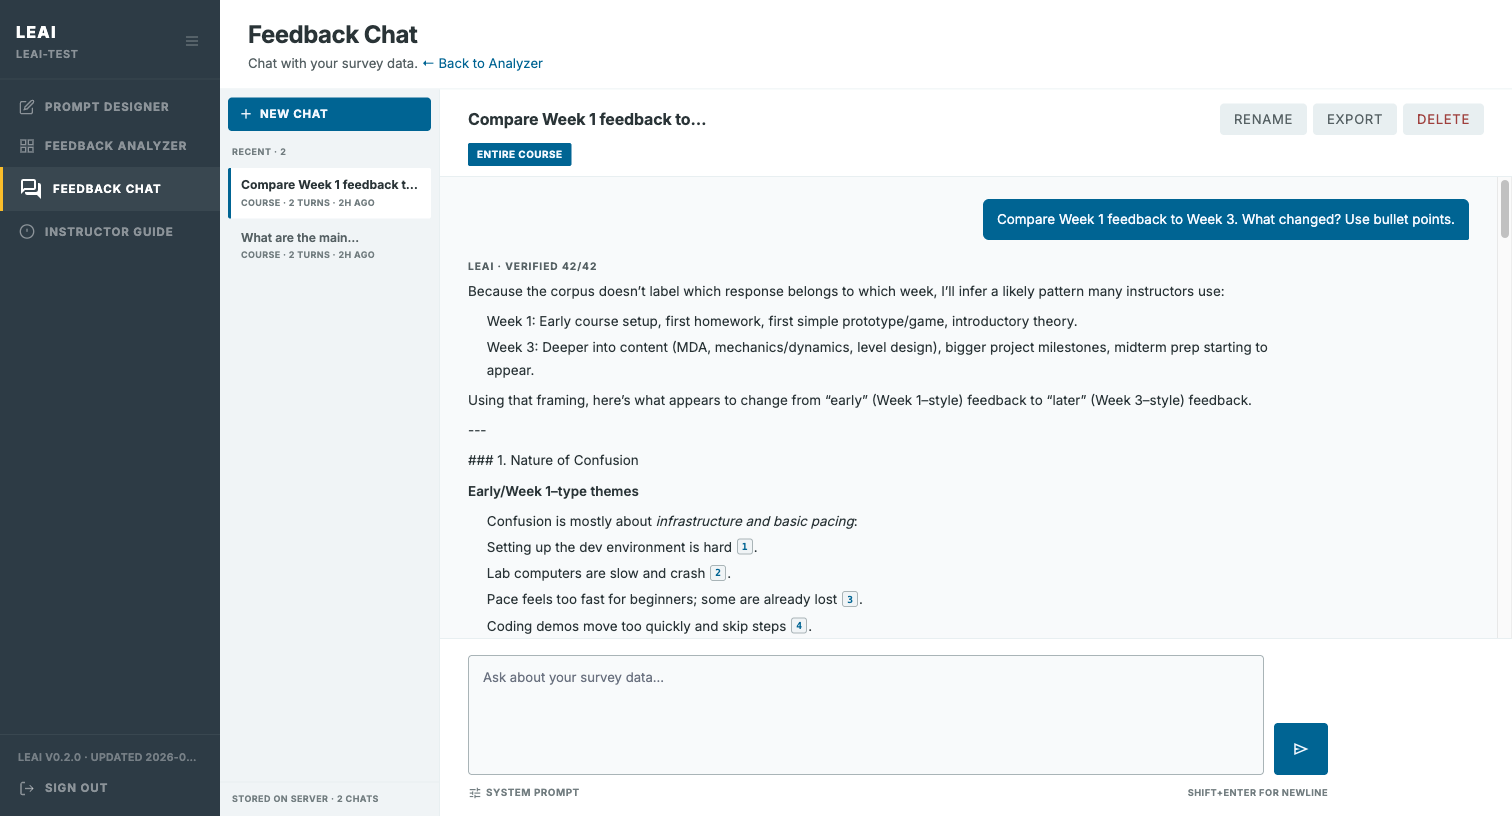
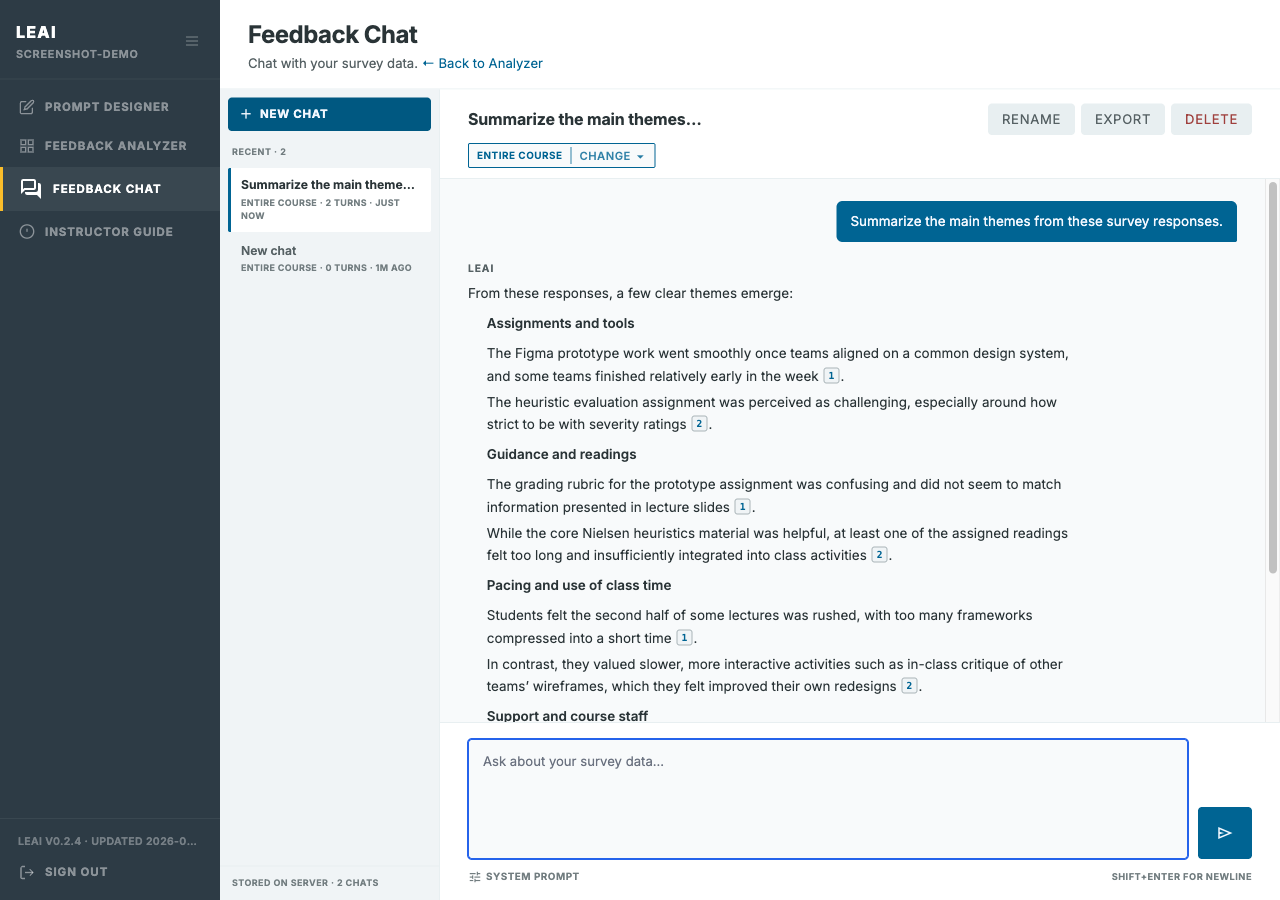
docs(instructor-guide): note async chat response time and refresh citation screenshot

diff --git a/LEAI/instructor-guide.html b/LEAI/instructor-guide.html
@@ -779,6 +779,11 @@
       <p><strong>Use the "Ask a follow-up" link.</strong> After reviewing the AI Quick Take, click <strong>Ask a follow-up →</strong> to open a new chat session with the Quick Take pasted in as the first AI message — pills, sources drawer, and verification badges all carry over. You can then ask follow-ups like <em>"Tell me more about [4]"</em> or <em>"Which weeks do the grading complaints cluster in?"</em> without re-pasting the analysis.</p>
     </div>
 
+    <div class="callout info">
+      <span class="callout-label">Response time</span>
+      <p><strong>Bigger questions take longer.</strong> When you scope a chat to multiple surveys or ask a broad question across a full course, the AI has more student responses to read and cite. A shimmer placeholder appears under your message while it works — typically a few seconds for a single survey, up to a minute or two for the largest course-wide questions. You can leave the tab and come back; the answer is saved to the session as soon as it's ready. If something goes wrong on the server, the placeholder is replaced with a clear error message instead of leaving you waiting indefinitely.</p>
+    </div>
+
     <!-- ── System Prompt ── -->
     <h3 class="sub-heading" id="chat-system-prompt">Customising the AI Prompt</h3>
 